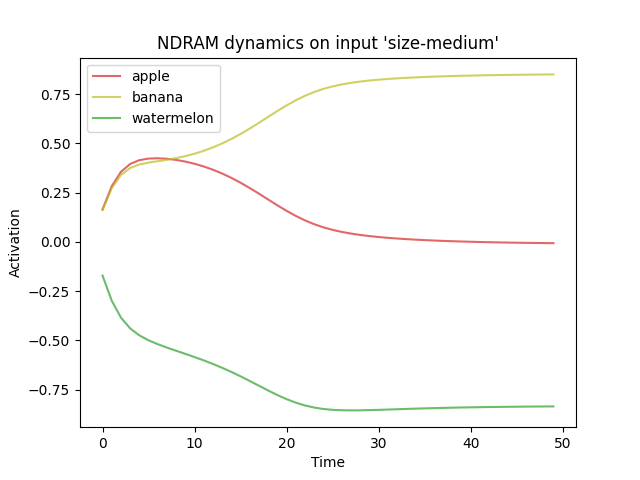
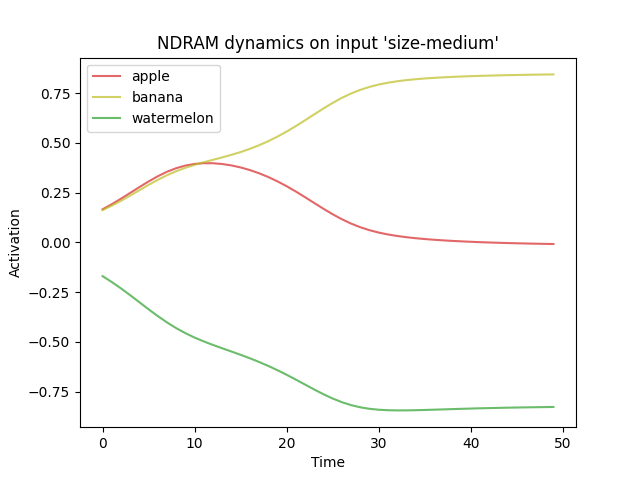
tweak to tutorial

diff --git a/tutorial/demos/incubation/main.py b/tutorial/demos/incubation/main.py
@@ -92,8 +92,10 @@ def main():
     N = 50
     apple, banana, watermelon = [], [], []
     stim.process.stimulate(["size-medium"])
-    for _ in range(N):
+    for i in range(N):
         agent.step()
+        if i == 0:
+            stim.process.stimulate([]) # clear stimulus
         apple.append(bu.output[cl.chunk("nacs/chunks#0002-apple")])
         banana.append(bu.output[cl.chunk("nacs/chunks#0010-banana")])
         watermelon.append(bu.output[cl.chunk("nacs/chunks#0018-watermelon")])
